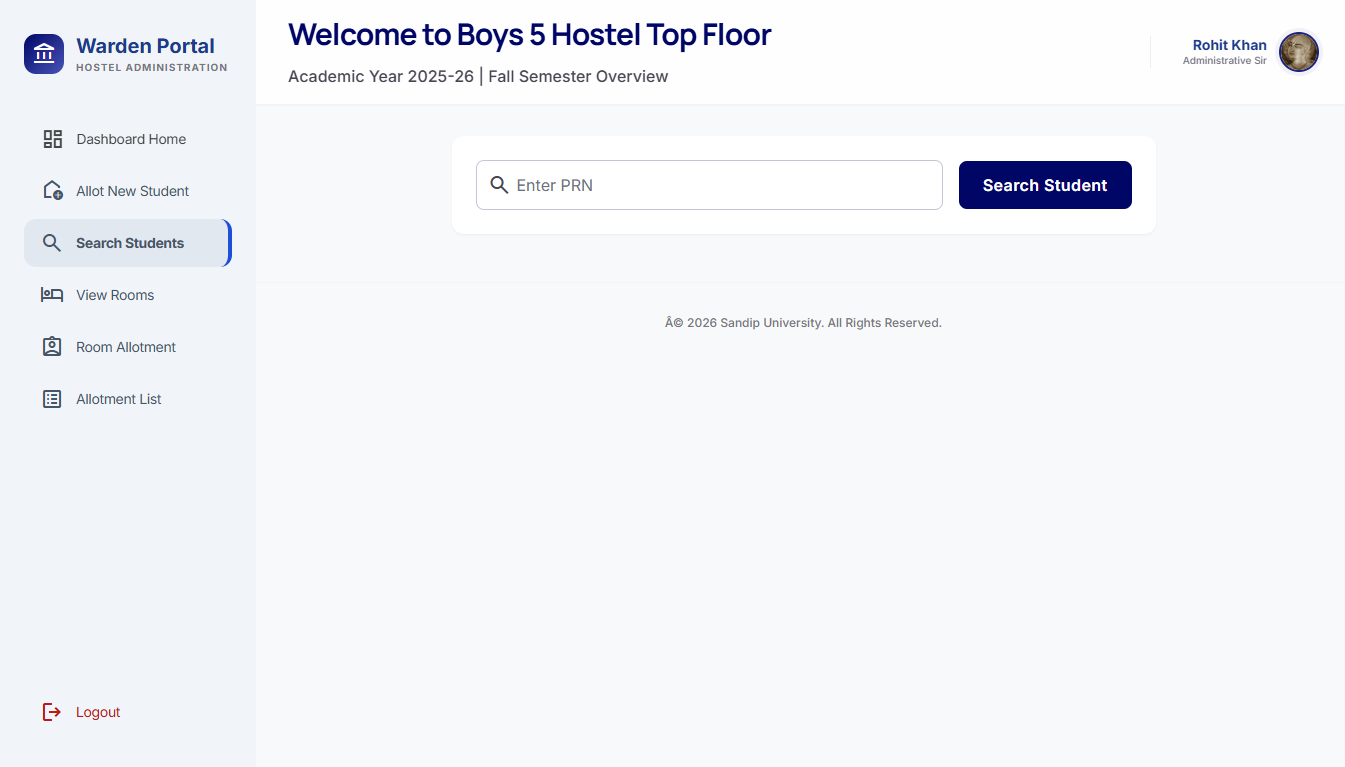
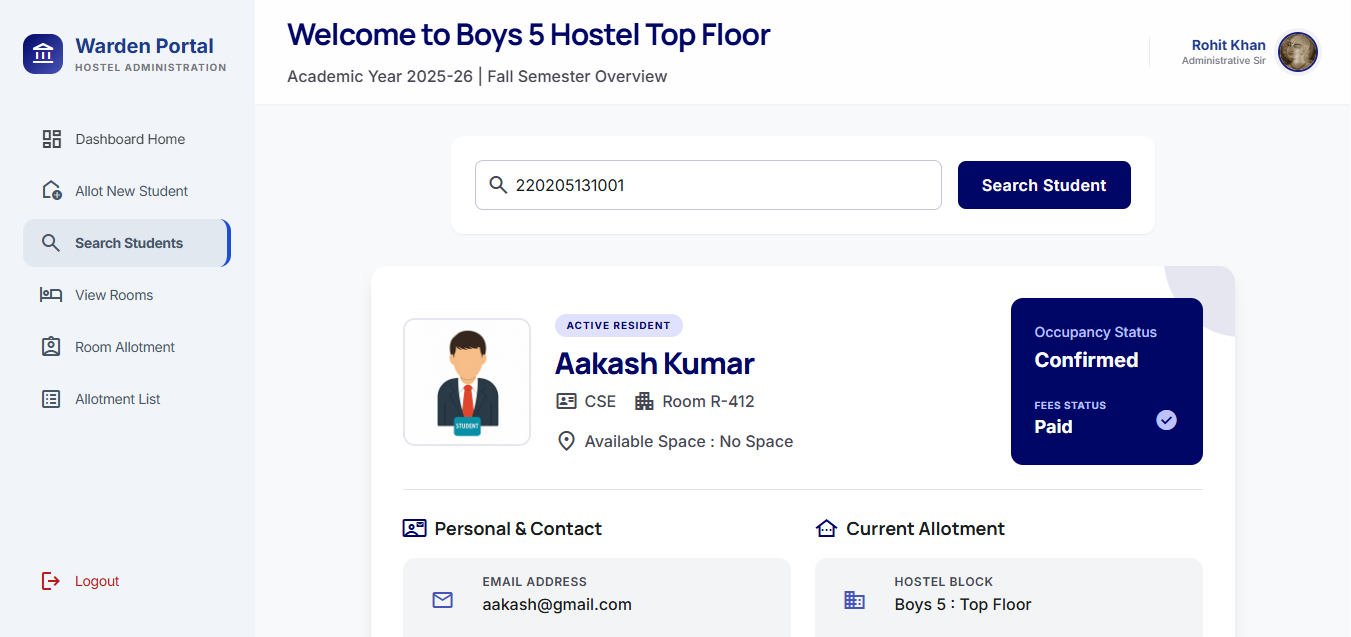
Add Project Documentation

diff --git a/README.md b/README.md
@@ -1,92 +1,94 @@
-Hostel Allotment System
+# Hostel Allotment System
+
 A Major Project developed as part of the B.Tech (CSE) curriculum.
 
-📸 Project Images
-
-# Bank Management System
-
-A Minor Project developed as part of the B.Tech (CSE) curriculum.
-
 ## 📸 Project Images
+## Home Page
+![Home-Page](src/main/webapp/image/Home-Page1.png)
+![Home-Page](src/main/webapp/image/Home-Page2.png)
+![Home-Page](src/main/webapp/image/Home-Page3.png)
+![Home-Page](src/main/webapp/image/Home-Page4.png)
 
-## Login Page
-![Login-Page](src/main/webapp/img/Login-Page.png)
-
-## Open Account
-![Open-Account](src/main/webapp/img/Open-Account.png)
-
-## Password Recover
-![Password-Recover](src/main/webapp/img/Password-Recover.png)
-
-## Transfer Balance
-![Transfer-Balance](src/main/webapp/img/Transfer-Balance.png)
-
-## Deposit Balance
-![Deposit-Balance](src/main/webapp/img/Deposit-Balance.png)
-
-## Change Mobile Number
-![Change-mobile-number](src/main/webapp/img/Change-mobile-number.png)
-
-## Change Password
-![Change-password](src/main/webapp/img/Change-password.png)
+## Admin Login Page
+![Admin-Login-Page](src/main/webapp/image/Admin-Login-Page.png)
 
 
+## Admin Dashboard Page
+![Admin-Dashboard-Page](src/main/webapp/image/Admin-Dashboard-Page.png)
+
+## Admin Privileges Page
+### Allot New Room
+![Admin-Privileges-Page1](src/main/webapp/image/Allot-New-Room.png)
+
+### Search Student Page
+![Admin-Privileges-Page1](src/main/webapp/image/Student-Search-Page.png)
+
+## Student Login Page
+![Student-Login-Page](src/main/webapp/image/Student-Login-Page.png)
+
+## Student Profile Page
+![Student-Login-Page](src/main/webapp/image/Student-Profile1.png)
+![Student-Login-Page](src/main/webapp/image/Student-Profile2.png)
+
+---
 
 ## 📘 Abstract
+The Hostel Management System (HMS) is a secure and efficient web-based application designed to 
+automate and simplify hostel administration processes. It replaces traditional manual record-keeping
+methods with a centralized digital platform that manages student registration, room allocation, 
+and complaint handling. The system enables administrators to efficiently maintain student records,
+monitor room occupancy, and manage hostel operations in real time.
 
-The **Bank Management System (BMS)** is a secure and efficient web-based application that streamlines essential banking operations for users and administrators. It replaces traditional manual systems with a centralized digital solution that supports customer registration, account management, transactions (deposit, withdrawal), balance checks, and statement generation.
-
+---
 
 ## 🎯 Objectives
 
-- Provide a digital platform for core banking operations.
-- Eliminate manual errors and delays through automation.
-- Ensure secure and fast access to banking services.
-- Simplify tasks for both customers and administrators.
+- Provide a centralized digital platform for managing hostel operations efficiently.
+- Reduce manual errors, paperwork, and administrative workload through automation.
+- Ensure secure storage and quick retrieval of student and hostel-related information.
+- Enable efficient monitoring of room occupancy, hostel records, and student Details.
+- Enhance transparency, accuracy, and overall efficiency in hostel management.
+- Provide a user-friendly system that offers fast and convenient access to hostel services.
 
 ---
 
 ## 🔑 Key Features
 
-### ➤ Account Management
-- Customer registration with personal & financial data
-- View/update customer information
+### ➤ Student Management
+- Student registration with personal and academic details
+- View and update student information
 
-### ➤ Transaction Management
-- Deposit and withdrawal functionality
-- View transaction history
-
-### ➤ Balance & Statement Inquiry
-- Real-time balance checks
-- Generate account statements (monthly/yearly)
+### ➤ Room Management
+- Room allocation to students
+- View room availability and occupancy status
 
 ### ➤ Security & Authentication
-- User login with two-layer authentication (username & password)
+- Secure user login with username and password
+- Role-based access control for administrators and students
 
 ---
 
 ## 🧩 System Modules
 
-- **User Registration Module** – For new customer account creation.
-- **Login Module** – Secure access using authentication.
-- **Banking Functions Module** – Balance checks, deposit, withdrawal, and transaction history.
-
+- **Student Registration Module** – For registering new students and maintaining their personal and academic details.
+- **Login Module** – Secure access for students and administrators using authentication credentials.
+- **Room Management Module** – For room allocation, room availability tracking, and occupancy management.
 ---
 
 ## 🛠 Technologies Used
 
-| Category        | Tools / Languages                          |
-|----------------|---------------------------------------------|
-| Frontend       | HTML, CSS, JavaScript, JSP                  |
-| Backend        | Java (JDK 24), JDBC, Servlets               |
-| Database       | Oracle 11g XE / MySQL 8.0+                  |
-| Web Server     | Apache Tomcat 9                             |
-| IDE            | IntelliJ IDEA / Eclipse                     |
-| OS             | Windows 10/11 or Ubuntu 20.04+              |
-| Browser        | Chrome / Edge                               |
-| Cloud Hosting  | AWS EC2 (Ubuntu 20.04 LTS)                  |
-| Version Control| Git (Git Bash)                              |
-| File Transfer  | FileZilla                                   |
+| Category       | Tools / Languages              |
+|----------------|--------------------------------|
+| Frontend       | HTML, CSS, JavaScript, JSP     |
+| Backend        | Java (JDK 24), JDBC, Servlets  |
+| Database       | Oracle 11g XE / MySQL 8.0+     |
+| Web Server     | Apache Tomcat 9                |
+| IDE            | IntelliJ IDEA / Eclipse        |
+| OS             | Windows 10/11 or Ubuntu 20.04+ |
+| Browser        | Ulaa / Chrome / Edge           |
+| Cloud Hosting  | AWS EC2 (Ubuntu 20.04 LTS)     |
+| Version Control| Git (Git Bash)                 |
+| File Transfer  | FileZilla                      |
 
 
 ## ☁ Deployment Architecture
